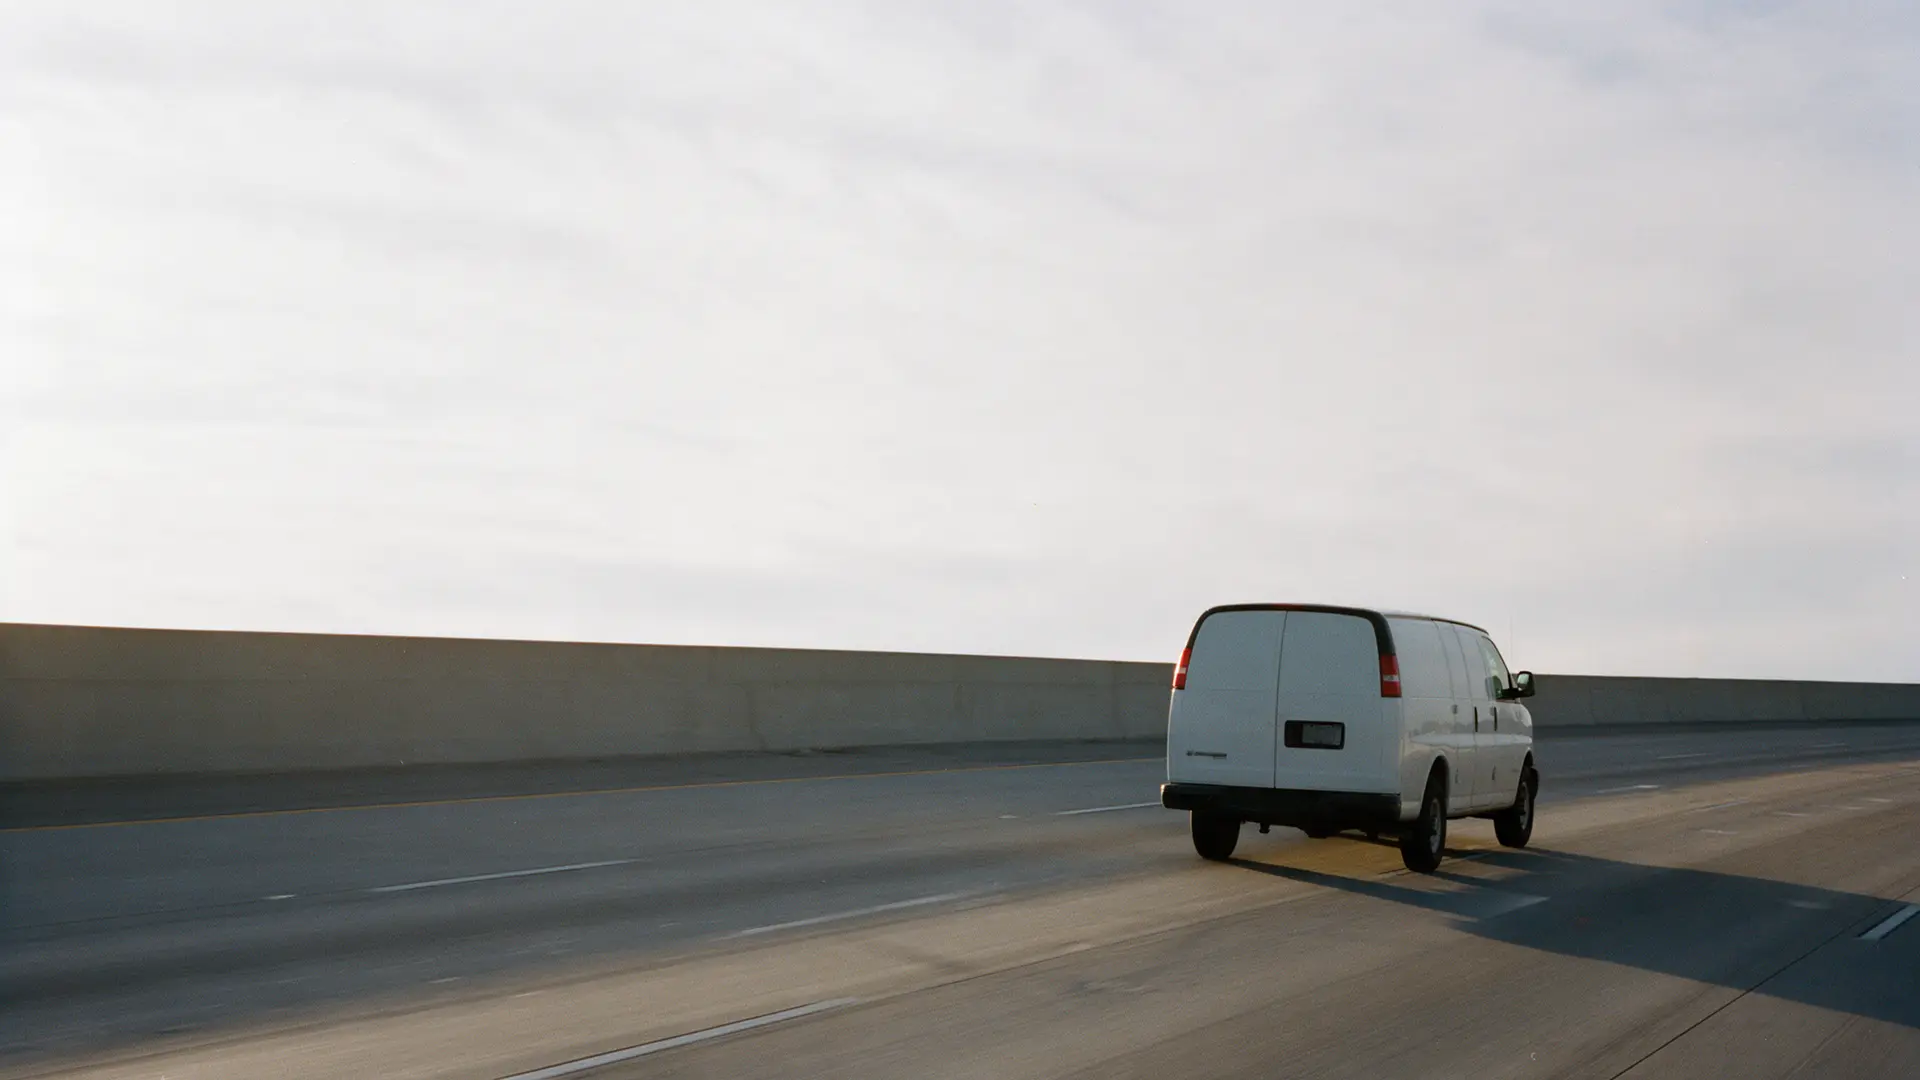
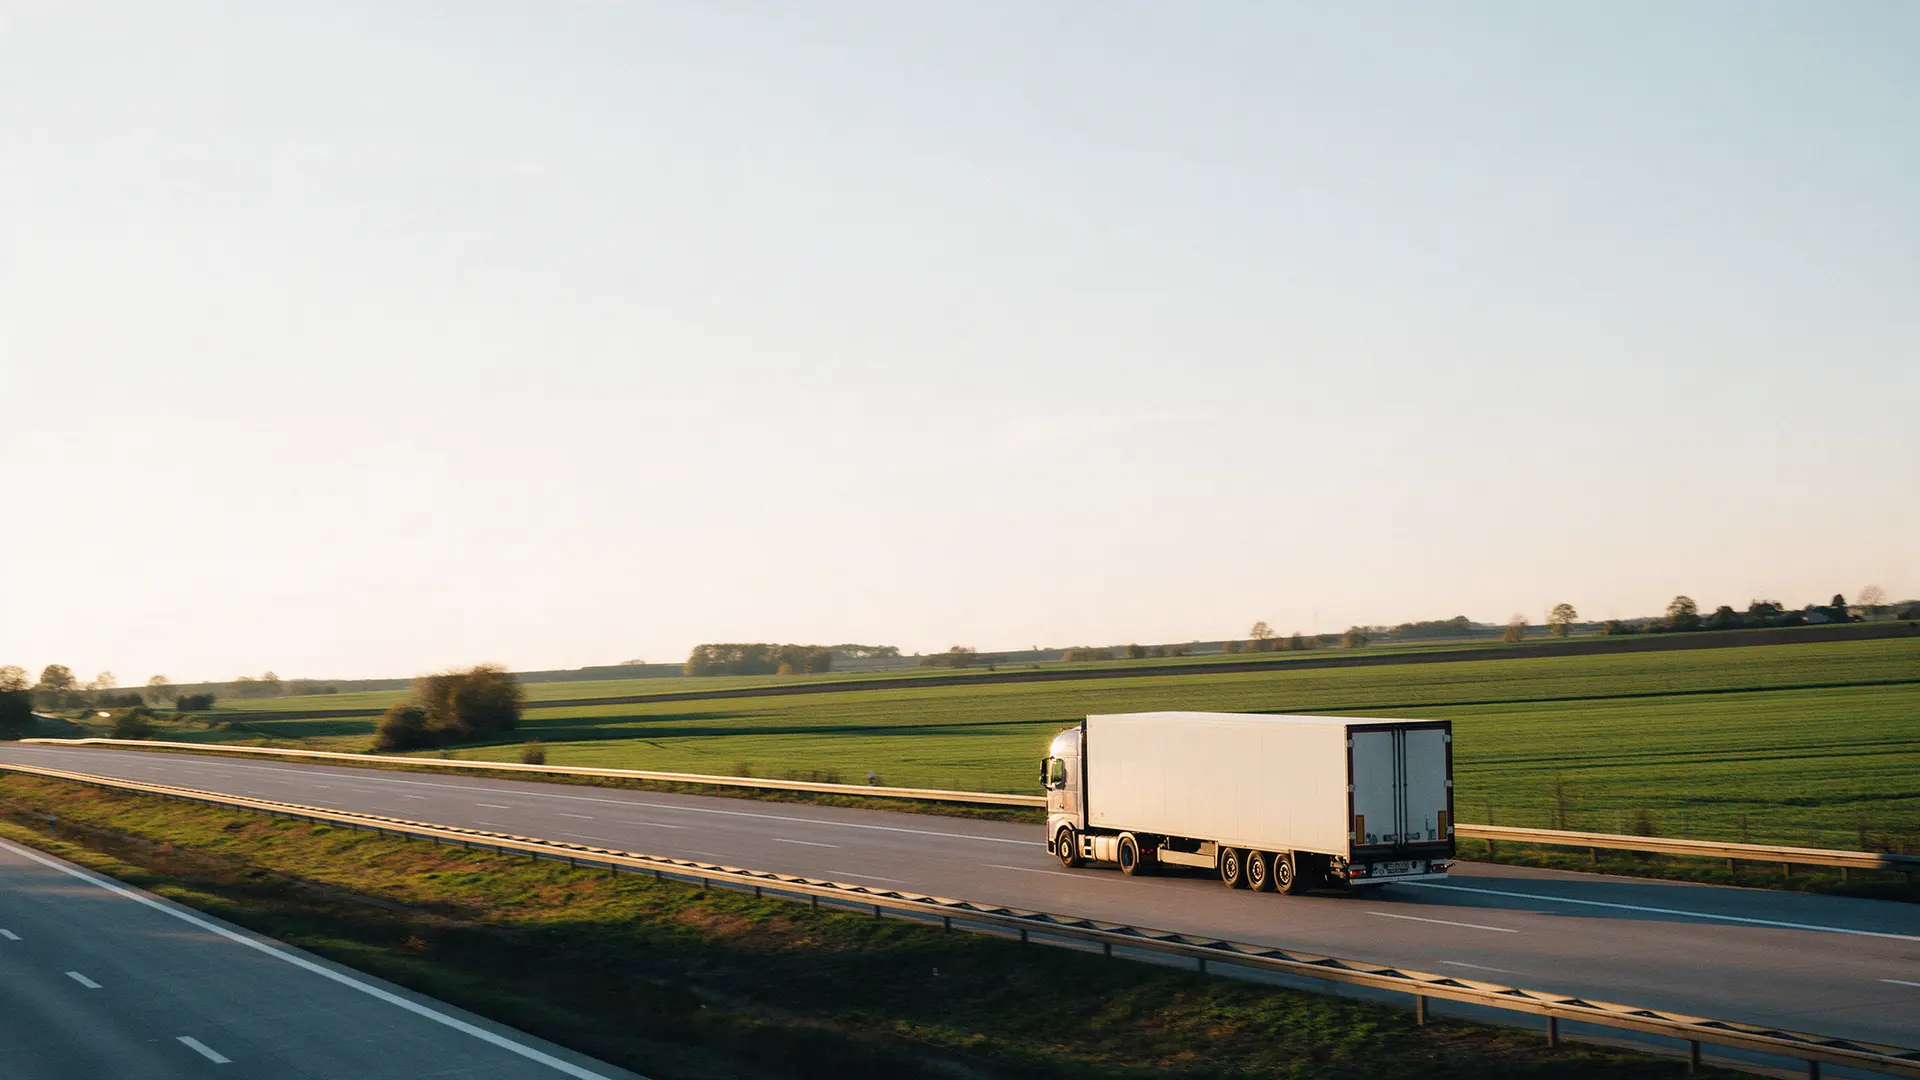
Новые фото и сцены

diff --git a/index.html b/index.html
@@ -36,7 +36,7 @@
       <p class="s-lead">Автомобильные грузоперевозки и экспедирование грузов. Клиенты называют нас надёжной компанией с большой историей. Назовите маршрут – рассчитаем.</p>
       <div class="s-actions"><a class="s-btn" href="#contacts">Позвонить для расчёта</a><a class="s-link" href="#prices">Цены</a></div>
     </div>
-    <figure class="s-hero__img"><img class="" src="assets/cargo.webp" alt="Грузчики несут шкаф в стрейче к фургону" decoding="async" fetchpriority="high"></figure>
+    <figure class="s-hero__img"><img class="" src="assets/cargo.webp" alt="Склад с паллетами и погрузчиком" decoding="async" fetchpriority="high"></figure>
   </section>
 
   <ul class="s-facts"><li>Автомобильные перевозки</li><li>Экспедирование грузов</li><li>Логистическая компания</li></ul>
@@ -64,7 +64,7 @@
     </ol>
   </section>
 
-  <section class="s-photos" aria-label="Фото"><figure><img class="" src="assets/load.webp" alt="Фургон с коробками на ремнях и мебелью в одеялах" loading="lazy" decoding="async"><figcaption>Фургон под погрузку</figcaption></figure><figure><img class="" src="assets/done.webp" alt="Коробки в комнате новой квартиры" loading="lazy" decoding="async"><figcaption>Выгрузка на месте</figcaption></figure><figure><img class="" src="assets/road.webp" alt="Фургон на трассе" loading="lazy" decoding="async"><figcaption>Межгород</figcaption></figure></section>
+  <section class="s-photos" aria-label="Фото"><figure><img class="" src="assets/load.webp" alt="Паллеты у ворот терминала" loading="lazy" decoding="async"><figcaption>Погрузка паллет</figcaption></figure><figure><img class="" src="assets/done.webp" alt="Грузовые документы на столе" loading="lazy" decoding="async"><figcaption>Документы</figcaption></figure><figure><img class="" src="assets/road.webp" alt="Фура на трассе" loading="lazy" decoding="async"><figcaption>Дальние рейсы</figcaption></figure></section>
 
   <section class="s-section">
     <header class="s-section__head"><h2>Что важно знать</h2></header>
